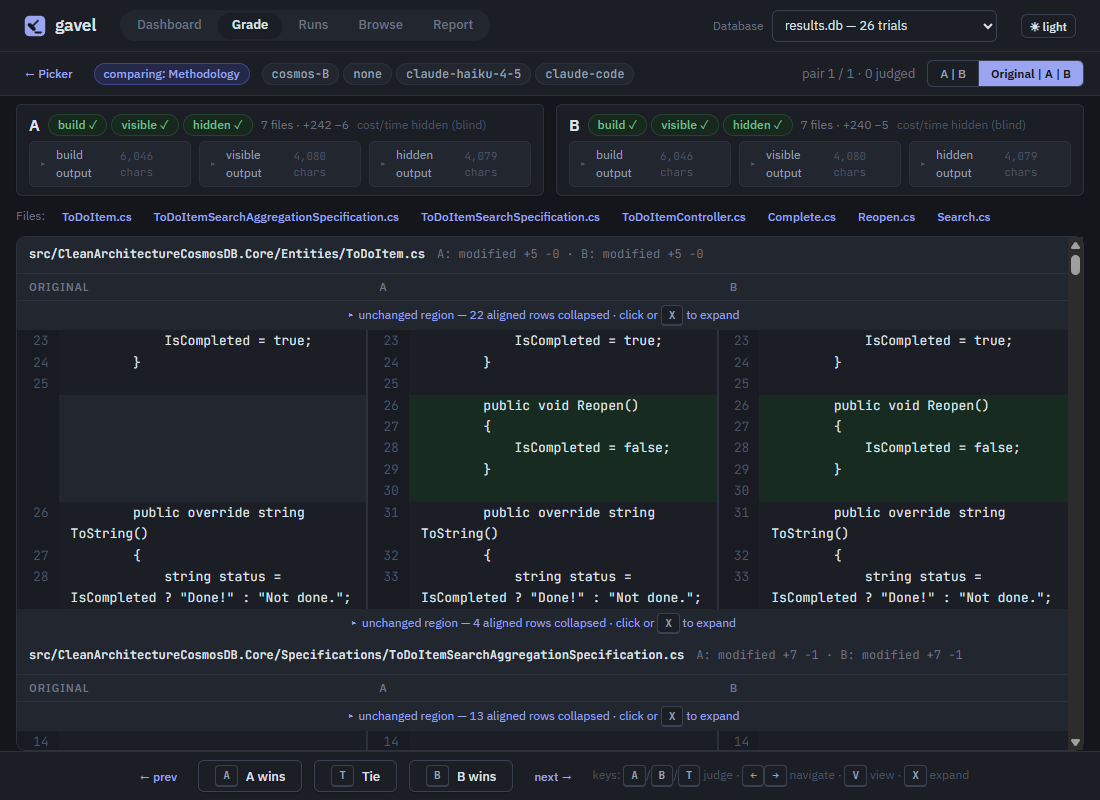
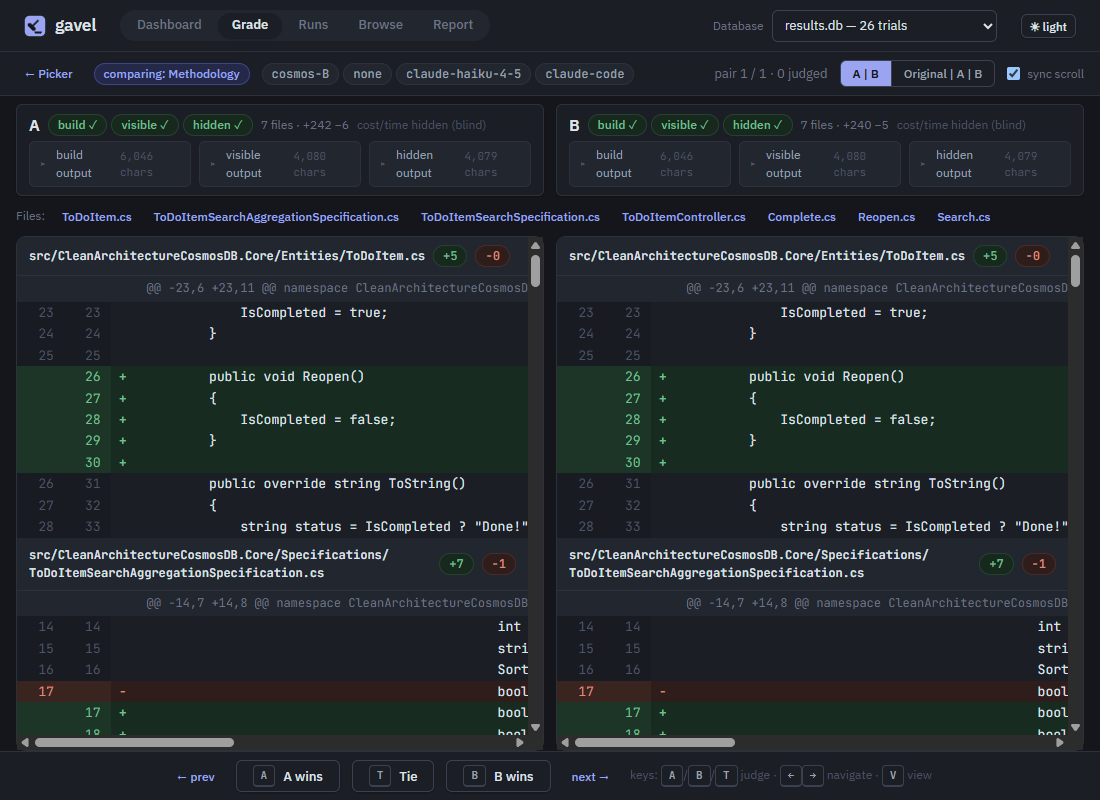
fix: critic-pass-10 batch — open logs truly full-width, pinned headers under h-scroll
The pass-8 log-expander fix never actually worked on real trials: the
inline flex style on the details element out-ranked the stylesheet's
[open] full-width rule, and demo trials (one log per pane) masked it —
exactly the demo-data blind spot the user warned about. The layout now
lives entirely in CSS and is verified live on the real cosmos-B session
with three logboxes (open log 672px of a 698px card) plus a Playwright
regression against the three-logbox fixture.

Diff headers no longer scroll away horizontally: file sections share one
max-content inner container (a plain block wrapper stopped at the
scrollport, leaving sticky labels zero slack — and narrow sections
scrolled off entirely when a wide sibling drove the scroll width), the
file-header label is an inner sticky span, and the @@ hunk text sticks
just past the pinned gutters (the sticky must sit on the span: the code
cell is the last column, so a sticky cell has no slack to move into).
Measured on the real session at scrollLeft 400: header at 13px, hunks at
114px, gutters at 1px; regression added to the gutter test.

Also: ?db= in the URL now tracks the switcher (history.replaceState) so a
stale param can't contradict the selector after a mid-session DB switch;
hover-card task text re-flows YAML hard wraps (paragraphs and list items
preserved) instead of ragged mid-sentence breaks.

diff --git a/ui/frontend/src/components/DiffView.tsx b/ui/frontend/src/components/DiffView.tsx
@@ -27,12 +27,17 @@ export function BreakablePath({ path }: { path: string }) {
 
 function FileTable({ file }: { file: FileDiff }) {
   return (
-    <div data-testid="diff-file" data-file={file.displayPath}>
+    <div className="diff-file" data-testid="diff-file" data-file={file.displayPath}>
+      {/* outer band spans the full (possibly overflowing) content width;
+          the inner sticky span keeps the label readable while the pane
+          scrolls horizontally */}
       <div className="diff-file-header">
-        <span className="path"><BreakablePath path={file.displayPath} /></span>
-        {file.status !== "modified" && <span className="badge neutral">{file.status}</span>}
-        <span className="badge ok">+{file.linesAdded}</span>
-        <span className="badge fail">−{file.linesRemoved}</span>
+        <span className="diff-file-inner">
+          <span className="path"><BreakablePath path={file.displayPath} /></span>
+          {file.status !== "modified" && <span className="badge neutral">{file.status}</span>}
+          <span className="badge ok">+{file.linesAdded}</span>
+          <span className="badge fail">−{file.linesRemoved}</span>
+        </span>
       </div>
       {file.binary ? (
         <div className="diff-empty">Binary file — no text diff.</div>
@@ -56,7 +61,7 @@ function HunkRows({ header, lines }: { header: string; lines: FileDiff["hunks"][
         <td className="lineno" />
         <td className="lineno" />
         <td className="marker" />
-        <td className="code">{header}</td>
+        <td className="code"><span className="hunk-inner">{header}</span></td>
       </tr>
       {lines.map((line, i) => (
         <tr key={i} className={line.kind} data-old={line.oldLine ?? ""} data-new={line.newLine ?? ""}>
@@ -87,7 +92,12 @@ export function UnifiedDiffPane({
       {files.length === 0 ? (
         <div className="diff-empty">Empty diff — no changes outside instruction files.</div>
       ) : (
-        files.map((f) => <FileTable key={f.displayPath} file={f} />)
+        // One shared inner container spanning max-content: every file
+        // section (and its header band) is as wide as the widest line in
+        // ANY file, so sticky header labels have slack in every section.
+        <div className="diff-pane-inner">
+          {files.map((f) => <FileTable key={f.displayPath} file={f} />)}
+        </div>
       )}
     </div>
   );

diff --git a/ui/frontend/src/diff.css b/ui/frontend/src/diff.css
@@ -30,24 +30,34 @@
   border-radius: var(--radius-lg);
 }
 
+/* the shared inner container spans the widest content line, so every file
+   section — as a normal block child — stretches to the full scroll width
+   and sticky header labels always have slack to stick within */
+.diff-pane-inner {
+  width: max-content;
+  min-width: 100%;
+}
+
 .diff-file-header {
   position: sticky;
   top: 0;
-  left: 0;
   z-index: 2;
-  display: flex;
-  align-items: center;
-  gap: var(--space-2);
   padding: var(--space-2) var(--space-3);
   background: var(--color-surface-inset);
   border-bottom: 1px solid var(--color-border);
   font-family: var(--font-mono);
   font-size: var(--text-xs);
   color: var(--color-text);
-  max-width: 100%;
-  /* stays visible while the pane scrolls horizontally */
-  width: fit-content;
-  min-width: 100%;
+}
+
+/* …while the label itself sticks to the visible left edge */
+.diff-file-header .diff-file-inner {
+  position: sticky;
+  left: var(--space-3);
+  display: inline-flex;
+  align-items: center;
+  gap: var(--space-2);
+  max-width: calc(100vw - 8rem);
 }
 
 .diff-file-header .path {
@@ -114,6 +124,17 @@ table.diff tr.hunk td {
   font-size: var(--text-xs);
   padding: 3px var(--space-3);
   user-select: none;
+}
+
+/* the @@ header text stays readable under horizontal scroll. The sticky
+   must sit on the inner span: the cell itself is the LAST column, so its
+   right edge already touches the row edge — a sticky cell has no slack to
+   move into. The span (text-width) does. Pinned just past the pinned
+   gutter columns (3.6em + 3.6em + 1.2em marker + cell padding). */
+table.diff tr.hunk .hunk-inner {
+  position: sticky;
+  left: calc(8.4em + var(--space-3));
+  display: inline-block;
 }
 
 table.diff td.marker {

diff --git a/ui/frontend/src/components/previews.tsx b/ui/frontend/src/components/previews.tsx
@@ -6,6 +6,26 @@ import type { Catalog, ModelEntry, RunnerEntry, SpecEntry, TaskEntry } from "../
 import { fmtUsd } from "../api";
 import { HoverPreview } from "./HoverPreview";
 
+/** Task specs are YAML-folded at ~75 columns; re-flow the hard wraps so the
+ * card wraps at its own width, keeping paragraph breaks and list items. */
+function flowText(text: string): string {
+  return text
+    .split(/\n\s*\n/)
+    .map((para) =>
+      para
+        .split("\n")
+        .reduce<string[]>((acc, line) => {
+          const trimmed = line.trim();
+          if (!trimmed) return acc;
+          if (trimmed.startsWith("-") || acc.length === 0) acc.push(trimmed);
+          else acc[acc.length - 1] += ` ${trimmed}`;
+          return acc;
+        }, [])
+        .join("\n"),
+    )
+    .join("\n\n");
+}
+
 function TaskPreviewBody({ t }: { t: TaskEntry }) {
   return (
     <>
@@ -15,7 +35,7 @@ function TaskPreviewBody({ t }: { t: TaskEntry }) {
         {t.difficulty && <span className="badge neutral" style={{ marginLeft: "0.5em" }}>{t.difficulty}</span>}
       </span>
       {t.instruction ? (
-        <span className="preview-body">{t.instruction}</span>
+        <span className="preview-body">{flowText(t.instruction)}</span>
       ) : (
         <span className="preview-body faint">
           No local task spec (id exists only in this DB — e.g. synthetic demo data).

diff --git a/ui/frontend/src/pages/GradeSession.tsx b/ui/frontend/src/pages/GradeSession.tsx
@@ -63,7 +63,9 @@ function SideHeader({ side }: { side: BlindSide }) {
         <div className="row wrap" style={{ gap: "var(--space-2)", marginTop: "auto", paddingTop: "var(--space-1)" }}>
           {(["compile", "visible", "hidden"] as const).map((tier) =>
             gd[tier].output ? (
-              <details key={tier} className="logbox" style={{ flex: "1 1 10rem", maxWidth: "100%" }}>
+              // Layout lives in CSS only: an inline flex style here would beat
+              // the stylesheet's [open] full-width rule (the pass-10 bug).
+              <details key={tier} className="logbox">
                 <summary data-testid={`log-${side.label}-${tier}`}>
                   <span>{tier === "compile" ? "build" : tier} output{gd[tier].truncated ? " (truncated)" : ""}</span>
                   <span className="logmeta">{gd[tier].output!.length.toLocaleString()} chars</span>

diff --git a/ui/frontend/src/db.tsx b/ui/frontend/src/db.tsx
@@ -27,6 +27,15 @@ export function DbProvider({ children }: { children: ReactNode }) {
 
   useEffect(() => {
     localStorage.setItem(STORAGE_KEY, db);
+    // Keep the URL truthful: a stale ?db= param while the switcher shows a
+    // different database misleads on reload and when sharing links.
+    const url = new URL(window.location.href);
+    const current = url.searchParams.get("db") ?? "";
+    if (current !== db) {
+      if (db) url.searchParams.set("db", db);
+      else url.searchParams.delete("db");
+      window.history.replaceState(null, "", url);
+    }
   }, [db]);
 
   return <DbContext.Provider value={{ db, setDb: setDbState }}>{children}</DbContext.Provider>;

diff --git a/ui/frontend/src/base.css b/ui/frontend/src/base.css
@@ -650,8 +650,16 @@ details.logbox {
   overflow: hidden;
 }
 
-/* An OPEN log must claim the full row width — a 6,000-char build log
-   wrapped inside a third-width flex column is unreadable. */
+/* In a row of expanders, closed ones share the line; an OPEN log must claim
+   the FULL row width — a 6,000-char build log wrapped inside a third-width
+   flex column is unreadable. No inline flex styles on logboxes: they would
+   out-rank the [open] rule (found the hard way in review pass 10). */
+.row > details.logbox {
+  flex: 1 1 10rem;
+  max-width: 100%;
+  min-width: 0;
+}
+
 .row > details.logbox[open] {
   flex-basis: 100%;
 }

diff --git a/tests/test_ui_playwright.py b/tests/test_ui_playwright.py
@@ -241,6 +241,22 @@ def test_gutter_stays_pinned_under_horizontal_scroll(page, server):
     assert -1 <= probe["linenoLeft"] <= 3, f"line numbers scrolled away: {probe}"
     assert 0 < probe["markerRight"] < probe["paneWidth"], f"marker off-screen: {probe}"
 
+    # File-header label and @@ hunk text stay readable too (pass-10 finding).
+    headers = page.evaluate(
+        """() => {
+          const panes = [...document.querySelectorAll('[data-testid="pane-a"],[data-testid="pane-b"]')];
+          const pane = panes.find(p => p.scrollWidth > p.clientWidth + 10);
+          const paneL = pane.getBoundingClientRect().left;
+          return {
+            header: pane.querySelector('.diff-file-inner').getBoundingClientRect().left - paneL,
+            hunk: pane.querySelector('tr.hunk .hunk-inner').getBoundingClientRect().left - paneL,
+            paneW: pane.clientWidth,
+          };
+        }"""
+    )
+    assert 0 <= headers["header"] < headers["paneW"] / 2, f"file header scrolled away: {headers}"
+    assert 0 <= headers["hunk"] < headers["paneW"] / 2, f"hunk header scrolled away: {headers}"
+
 
 def test_sync_scroll_locks_panes(page, server):
     _start_session(page, server, "methodology")
@@ -350,6 +366,29 @@ def test_file_navigator_jumps_both_panes(page, server):
         }"""
     )
     assert back < 5, f"first-file jump not at pane top: {back}"
+
+
+def test_open_log_expander_takes_full_row(page, server):
+    """With THREE logboxes per side (the real-trial case that demo data
+    hides), an opened one must claim the full card width — pass 10 found an
+    inline flex style silently defeating the stylesheet rule."""
+    _start_session(page, server, "methodology")
+    page.get_by_test_id("log-A-compile").click()
+    page.wait_for_timeout(150)
+    probe = page.evaluate(
+        """() => {
+          const card = document.querySelector('[data-testid="side-header-A"]');
+          const open = card.querySelector('details.logbox[open]');
+          const boxes = card.querySelectorAll('details.logbox').length;
+          return {
+            boxes,
+            cardW: card.getBoundingClientRect().width,
+            openW: open.getBoundingClientRect().width,
+          };
+        }"""
+    )
+    assert probe["boxes"] == 3, f"fixture must have 3 logboxes, got {probe['boxes']}"
+    assert probe["openW"] > probe["cardW"] * 0.9, f"open log not full-width: {probe}"
 
 
 # ---------------------------------------------------------------------------

diff --git a/docs/ui-revamp-log.md b/docs/ui-revamp-log.md
@@ -380,6 +380,19 @@ Branch: `ui-ux-revamp`. Spec: `recalibration_prompts/28-U1-ui-ux-professionaliza
     real $22.34 estimate. No sessions created on results.db (it resumed
     the pre-existing one read-only, 0 judgments).
 
+- Fresh critic pass 9: **0 blockers, 0 majors**, 1 minor, 1 nit — clean
+  pass #1 of the final streak. It confirmed every pass-8 fix by
+  observation (full-width open logs on the real 6,046-char dotnet log,
+  the two-step free confirm naming the DB, stacked preview cards, blurb
+  ellipses, the under-powered-BT note, the bogus-?db= banner, minute
+  formatting, slash-only path breaks) plus the standing invariants, XSS
+  and path-traversal probes included. Fixes: the armed free confirm went
+  stale when the SELECTION changed after arming (button offered the old
+  trial count) — any parameter change now kills the whole plan preview,
+  forcing a re-preview (target-DB edits only re-disarm); Playwright
+  regression arms, flips a chip, asserts the plan dies. The legacy
+  tiltyard.db localStorage key is now always removed.
+
 ## End of phase 1
 
 - Final state: 299 fast tests green + 15 Playwright integration tests green
